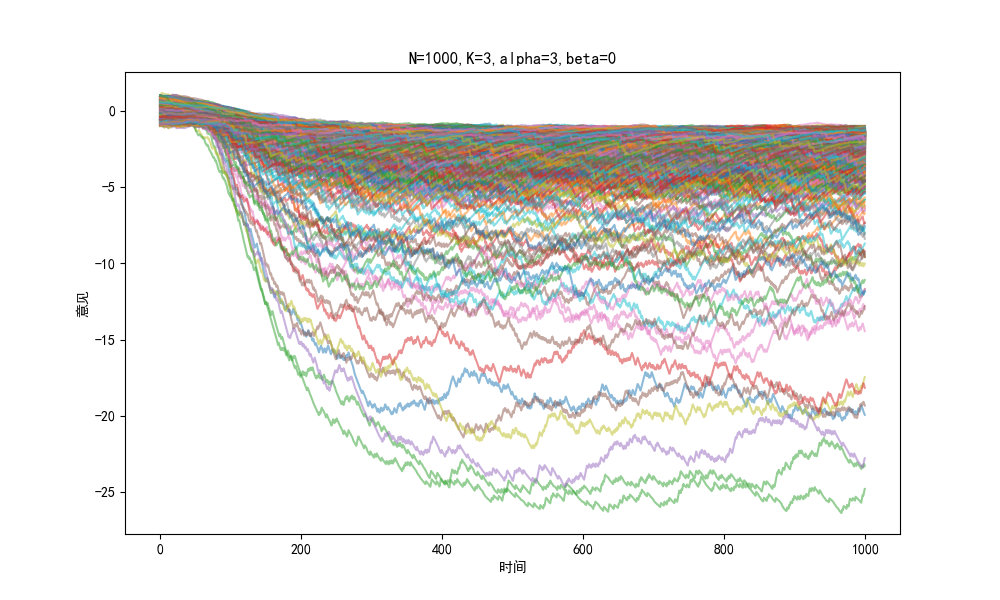
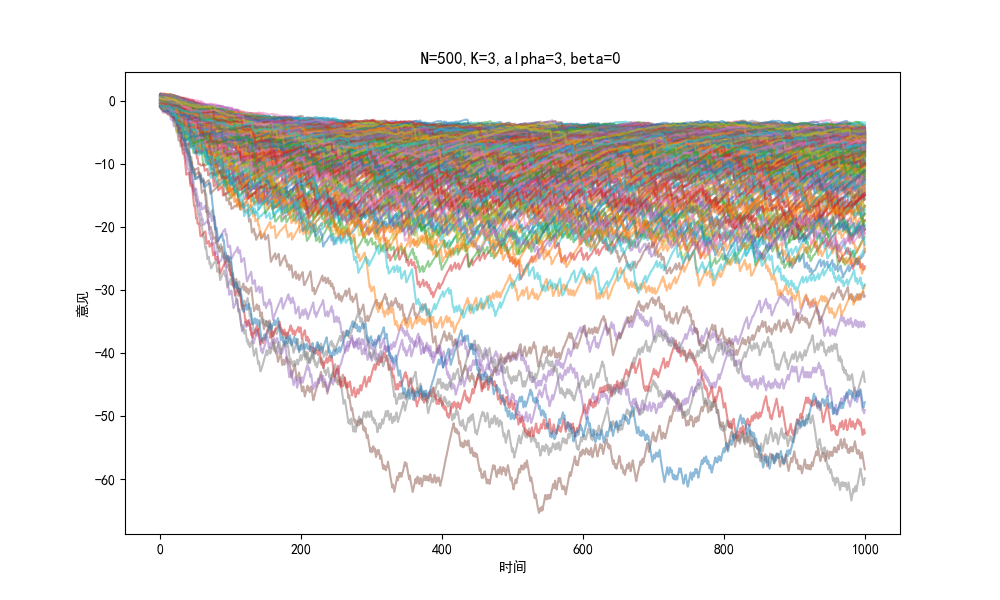
保存

diff --git a/main.py b/main.py
@@ -20,6 +20,7 @@ class model():
     
     def data_in(self, **kwargs):
         # 参数
+        self.tips = kwargs.get("tips")
         self.N = kwargs.get("N")
         self.T = kwargs.get("T")
         self.dt = kwargs.get("dt")
@@ -38,28 +39,74 @@ class model():
         temp = np.random.uniform(0, 1, self.N)
         return (self.epsilon ** (1 - self.gamma) + temp * (1 - self.epsilon ** (1 - self.gamma))) ** (1 / (1 - self.gamma))
 
-    def homogeneity_get(self, opinions, node):
-        p_matrix = np.zeros((self.N, self.N))  # 概率矩阵，表示代理人之间互动的概率
+    # def homogeneity_get(self, opinions):
+    #     p_matrix = np.zeros((self.N, self.N))  # 概率矩阵，表示代理人之间互动的概率
 
-        for i in range(self.N):
-            dif = np.abs(opinions[i] - opinions)  # 计算代理人 i 与其他代理人之间的意见距离
-            prob = (dif + 1e-10) ** (-self.beta)  # 根据意见距离计算互动概率
-            prob[i] = 0  # 自己与自己不互动
-            p_matrix[i, :] = prob / np.sum(prob)  # 归一化概率
+    #     for i in range(self.N):
+    #         dif = np.abs(opinions[i] - opinions)  # 计算代理人 i 与其他代理人之间的意见距离
+    #         prob = (dif + 1e-10) ** (-self.beta)  # 根据意见距离计算互动概率
+    #         prob[i] = 0  # 自己与自己不互动
+    #         p_matrix[i, :] = prob / np.sum(prob)  # 归一化概率
+    #     return p_matrix
+
+    def homogeneity_get(self, opinions):
+        dif = np.abs(opinions[:, np.newaxis] - opinions)
+        prob_matrix = (dif + 1e-10) ** (-self.beta)
+        np.fill_diagonal(prob_matrix, 0)
+        p_matrix = prob_matrix / prob_matrix.sum(axis=1, keepdims=True)
         return p_matrix
     
+    def custom_operation(self, tick, i):# 自定义操作函数
+        # 激活
+        homogeneities = self.homogeneity_get(self.opinions[tick - 1])# 获取同质性
+        neighbors = np.random.choice(self.N, size=self.m, replace=False, p=homogeneities[i])  # 选择m个节点连接
+        # 连接
+        self.A[i, neighbors] = 1
+        # 互惠
+        rand_arr1 = np.random.rand(self.m)
+        reciprocal_nodes = neighbors[rand_arr1 < self.r]
+        self.A[reciprocal_nodes, i] = 1
+
+        
+
     def network_update(self, tick):
         for i in range(self.N):# 遍历所有节点，确定是否激活
             if np.random.rand() <= self.activities[i]:
                 # 激活
-                homogeneities = self.homogeneity_get(self.opinions[tick - 1], i)# 获取同质性
+                homogeneities = self.homogeneity_get(self.opinions[tick - 1])# 获取同质性
                 neighbors = np.random.choice(self.N, size=self.m, replace=False, p=homogeneities[i])  # 选择m个节点连接
                 # 连接
                 self.A[i, neighbors] = 1
                 # 互惠
+                rand_arr1 = np.random.rand(self.m)
+                reciprocal_nodes = neighbors[rand_arr1 < self.r]
+                self.A[reciprocal_nodes, i] = 1
+
+
                 for node in neighbors:
                     if np.random.rand() < self.r:  # 以概率 r 设置反向关系
                         self.A[node][i] = 1
+
+
+        # 优化
+
+
+        # rand_arr2 = np.random.rand(self.N)
+        # # 比较 array1 的元素是否大于 array2 的对应元素
+        # comparison = rand_arr2 <= self.activities
+        # indices = np.where(comparison)[0]
+        # # 使用 np.vectorize 来向量化 temp 函数
+        # vectorized_temp = np.vectorize(self.custom_operation)
+        # # 执行向量化的 temp 函数
+        # #start_time = time.perf_counter()
+        # vectorized_temp(tick, indices)
+        # #end_time = time.perf_counter()
+        # #print(f"函数执行时间: {end_time - start_time:.6f} 秒")
+
+        
+
+
+
         # 网络显示
         # cliques = tech.bron_kerbosch_pivot(self.A)
         # print(cliques)
@@ -102,9 +149,10 @@ class model():
                             sum_rest += x[k]
                             # print("节点的意见", x[item], x[k], sum_rest)
 
-                    temp[item] += self.K * 2/len(j) * np.tanh(self.alpha * (sum_rest))
+                    temp[item] += self.K * 2 * len(j) * np.tanh(self.alpha * (sum_rest))
                     # print("temp计算完🍍", temp[item])
         return temp
+        # return -x + self.K * np.sum(self.A * np.tanh(self.alpha * x), axis=1)
     
     def opinion_dynamics234(self, x):# 意见动态微分方程
         temp = -x
@@ -117,8 +165,10 @@ class model():
                     for k in j:
                         if k != item:
                             sum_rest += x[k]
-                    temp[item] += self.K * 2/len(j) * np.tanh(self.alpha * (sum_rest))
+                    temp[item] += self.K * 2 * len(j) * np.tanh(self.alpha * (sum_rest))
+
         return temp
+        # return -x + self.K * np.sum(self.A * np.tanh(self.alpha * x), axis=1)
 
     def runge_kutta(self, opinions):
         k1 = self.dt * self.opinion_dynamics1(opinions)  # 计算 k1
@@ -135,9 +185,8 @@ class model():
         # 主循环
         for tick in tqdm(range(1, self.T)):
             self.A = np.zeros((self.N, self.N))  # 重置邻接矩阵
-            self.network_update(tick)# 网络连接
+            self.network_update(tick)# 网络连接 
             opinions_temp = self.runge_kutta(self.opinions[tick - 1])# 意见更新
-            #print(opinions_temp)
             self.opinions[tick] = self.opinions[tick - 1] + opinions_temp  # 记录当前时间步的意见
             
     
@@ -156,7 +205,8 @@ if __name__ == '__main__':
     # 激进化3, 0
     # 极化3, 3
     config = {
-        "N": 1000,  # 代理数量
+        "tips": "",
+        "N": 500,  # 代理数量
         "T": 1000,  # 时间步长
         "dt": 0.01,  # 时间步长
         "alpha": 0.05,  # 意见动态方程中的参数
@@ -168,7 +218,7 @@ if __name__ == '__main__':
         "r": 0.5,  # 互动的互惠性参数
     }
 
-    #func.opinions_draw(config)# 绘制 opinion 图
+    func.opinions_draw(config)# 绘制 opinion 图
 
     config["alpha"], config["beta"] = 3, 0
 
@@ -178,5 +228,7 @@ if __name__ == '__main__':
 
     func.opinions_draw(config)# 绘制 opinion 图
 
-    func.heatmap(lengh, config)# 绘制热力图
+    # func.heatmap(lengh, config)# 绘制热力图
+
+    # func.finish_draw()
 

diff --git a/test/test.py b/test/test.py
@@ -1,21 +1,41 @@
-def add_element_with_others(arr, indices, n):
-    # 确保索引列表是唯一的（如果需要）
-    indices = list(indices)
-    
-    # 如果索引 n 不在 indices 中，可以选择跳过或处理
-    if n not in indices:
-        raise ValueError("索引 n 不在给定的索引列表中")
-    
-    # 计算除 n 以外的其他索引的元素之和
-    sum_rest = sum(arr[i] for i in indices if i != n)
-    
-    # 返回 arr[n] 与所有其他索引元素的和
-    return arr[n] + sum_rest
+import numpy as np
+import matplotlib.pyplot as plt
+from scipy.integrate import odeint
 
-# 示例用法
-arr = [i for i in range(100)]  # 假设的长度为 100 的数组
-indices = [14, 20, 28]  # 给定的索引列表
-n = 14  # 给定的数字索引
+# 参数设置
+N = 1000          # 振子数量
+K = 3          # 耦合强度
+omega = np.random.normal(0, 1, N)  # 自然频率（高斯分布）
+theta0 = np.random.uniform(0, 2*np.pi, N)  # 初始相位
 
-result = add_element_with_others(arr, indices, n)
-print(f"索引为 {n} 的元素与所有其他索引的元素之和为: {result}")
+# Kuramoto微分方程
+def kuramoto(theta, t, N, K, omega):
+    dtheta_dt = np.zeros(N)
+    for i in range(N):
+        sum_term = np.sum(np.sin(theta - theta[i]))  # 相位耦合项
+        dtheta_dt[i] = omega[i] + (K/N) * sum_term
+    return dtheta_dt
+
+# 时间序列
+t = np.linspace(0, 10, 1000)
+
+# 数值求解
+theta = odeint(kuramoto, theta0, t, args=(N, K, omega))
+
+# 计算同步参数r(t)
+r = np.abs(np.mean(np.exp(1j * theta), axis=1))
+
+# 可视化
+plt.figure(figsize=(10,4))
+plt.subplot(121)
+plt.plot(t, theta, alpha=0.5)
+plt.xlabel('Time')
+plt.ylabel('Phase θ')
+
+plt.subplot(122)
+plt.plot(t, r)
+plt.xlabel('Time')
+plt.ylabel('Synchronization r(t)')
+plt.ylim(0,1)
+plt.tight_layout()
+plt.show()

diff --git a/src/func.py b/src/func.py
@@ -53,9 +53,9 @@ class func:
             plt.plot(range(self.model.T), self.model.opinions[:, i], alpha=0.5)  # 绘制每个代理的意见随时间变化
         plt.xlabel('时间')
         plt.ylabel('意见')
-        plt.title(f'N={self.model.N},K={self.model.K},alpha={self.model.alpha},beta={self.model.beta}')
+        plt.title(f'{self.model.tips}  N={self.model.N},K={self.model.K},alpha={self.model.alpha},beta={self.model.beta}')
         self.save()
-        plt.show()
+        plt.show(block=False)
         
 
     def network_print(self, A):
@@ -99,6 +99,15 @@ class func:
         # 显示绘制的图形
         plt.show()
 
+    # def finish_draw(self):
+    #     # 创建一个新的图形
+    #     plt.figure(num="运行状态")  # 设置窗口标题
+    #     # 在图形中添加文字，并设置文字的大小
+    #     plt.text(0.5, 0.5, "运行完毕", fontsize=24, ha='center', va='center')
+    #     # 移除坐标轴
+    #     plt.axis('off')
+    #     # 显示图形
+    #     plt.show()
 
     def save(self):
         global save_folder
